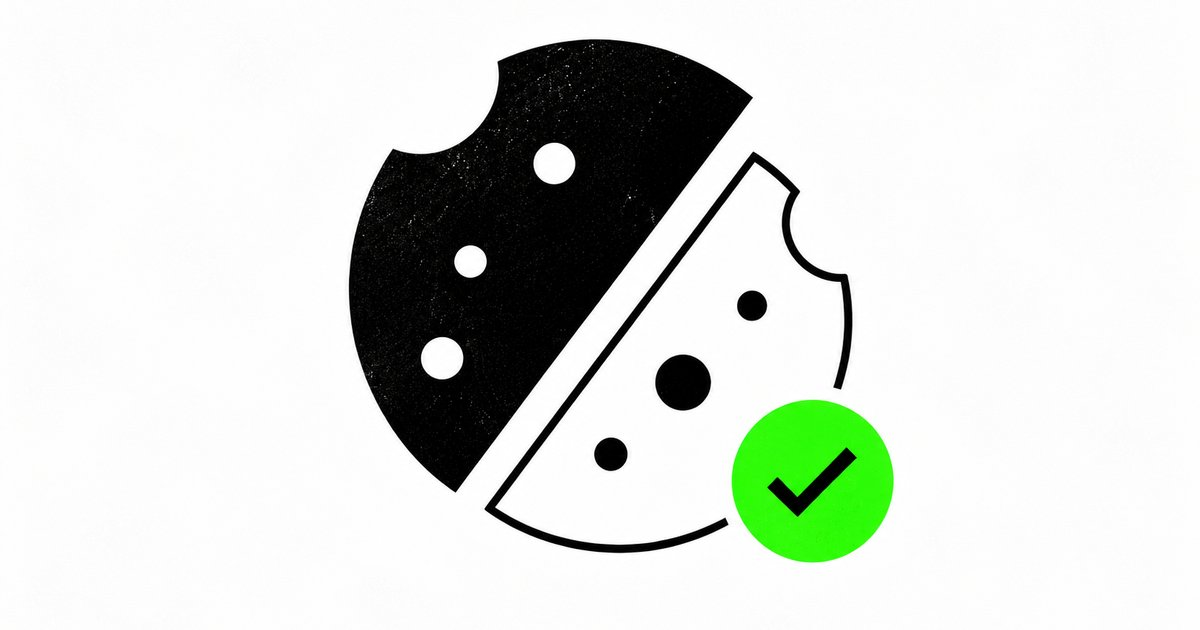
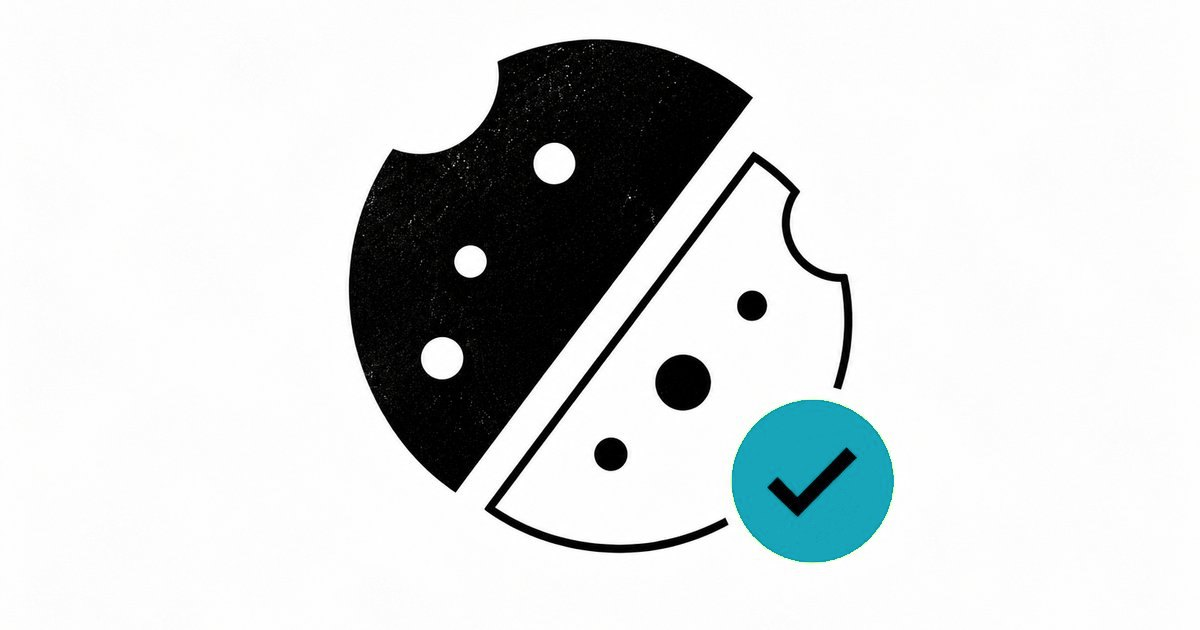
Ultimos restos del verde: el halo de la trayectoria y las imagenes OG
El halo detras de los logos de la trayectoria en /recruiters/ era un
rgba(44, 255, 5) escrito a mano, que la sustitucion de tokens no podia
ver. Pasa a rgba(var(--marca-rgb), ...): token nuevo con el color de
marca en canales sueltos, para que la proxima vez que cambie el color
se cambie en un sitio y no en cada sombra.

Las cinco imagenes OG de los articulos, las que salen al compartir en
LinkedIn, seguian en verde: el barrido anterior solo miro los .webp.
Recoloreadas con los mismos parametros. Barrido final sobre las 45
imagenes del sitio: solo queda el logo oficial de Google Analytics, que
es de terceros.

Changed region(s): [[0.5858, 0.6333, 0.7708, 0.9048]]

diff --git a/styles.css b/styles.css
@@ -67,6 +67,9 @@
        Sobre el teal oscuro el texto va en BLANCO, nunca en negro. */
     --marca: #0f5f6b;
     --marca-claro: #4ec5cf;
+    /* El mismo color en canales sueltos, para las sombras y halos que
+       necesitan transparencia: rgba(var(--marca-rgb), 0.4) */
+    --marca-rgb: 15, 95, 107;
     /* Negro que NO se invierte dentro de .section--dark. Lo usa el bloque de
        puntos clave de los articulos, que es una caja negra fuera de banda. */
     --ink: #0a0a0a;
@@ -1170,7 +1173,7 @@ body.menu-open {
     transform: none;
     box-shadow:
         7px 7px 0 var(--marca),
-        0 0 36px rgba(44, 255, 5, 0.4);
+        0 0 36px rgba(var(--marca-rgb), 0.4);
 }
 
 .journey__media.is-visible img {
@@ -1205,7 +1208,7 @@ body.menu-open {
     .has-js .reveal.journey__media.is-visible {
         box-shadow:
             5px 5px 0 var(--marca),
-            0 0 24px rgba(44, 255, 5, 0.35);
+            0 0 24px rgba(var(--marca-rgb), 0.35);
     }
 }
 
